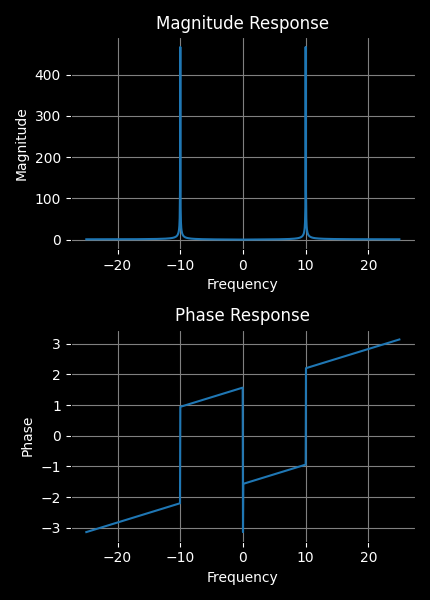
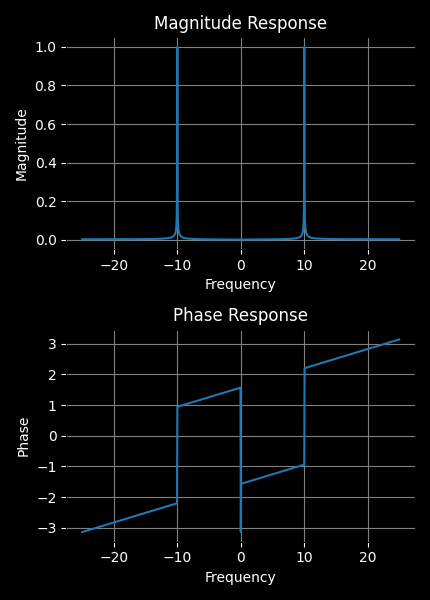
serveral changed on GUI and server

diff --git a/RaspberryPi/GUI/laplace_gui.py b/RaspberryPi/GUI/laplace_gui.py
@@ -1,0 +1,127 @@
+import os
+import sys
+
+sys.path.append(os.path.dirname(os.path.dirname(os.path.abspath(__file__))))
+
+import tkinter as tk
+from tkinter import ttk
+import math
+from sympy import symbols, sympify, laplace_transform
+from fourier_solver import get_laplace_transform
+
+class LaplaceTransform(tk.Frame):
+    def __init__(self, parent, controller):
+        super().__init__(parent, bg="#f0f0f0")
+        self.controller = controller
+        
+        self.function_var = tk.StringVar(value="")
+        self.result_var = tk.StringVar(value="")
+        
+        self.create_widgets()
+
+    def create_widgets(self):
+        self.columnconfigure(0, weight=1)
+
+        # Function entry
+        function_frame = ttk.Frame(self)
+        function_frame.grid(row=0, column=0, pady=20, padx=20, sticky="ew")
+        function_frame.columnconfigure(1, weight=1)
+        
+        ttk.Label(function_frame, text="f(t) = ").grid(row=0, column=0)
+        self.function_entry = ttk.Entry(function_frame, textvariable=self.function_var, font=('Arial', 14))
+        self.function_entry.grid(row=0, column=1, sticky="ew")
+
+        # Transform button
+        ttk.Button(self, text="Compute Laplace Transform", command=self.compute_transform).grid(row=1, column=0, pady=10)
+
+        # Result display
+        result_frame = ttk.Frame(self)
+        result_frame.grid(row=2, column=0, pady=20, padx=20, sticky="ew")
+        result_frame.columnconfigure(1, weight=1)
+        
+        ttk.Label(result_frame, text="F(s) = ").grid(row=0, column=0)
+        ttk.Entry(result_frame, textvariable=self.result_var, font=('Arial', 14), state='readonly').grid(row=0, column=1, sticky="ew")
+
+        # Calculator buttons
+        calc_frame = ttk.Frame(self)
+        calc_frame.grid(row=3, column=0, pady=20)
+        
+        buttons = [
+            'AC', 'DEL', '(', ')', '^', 'sqrt',
+            '7', '8', '9', '/', 'sin', 'cos',
+            '4', '5', '6', '*', 'tan', 'exp',
+            '1', '2', '3', '-', 'log', 'u(t)',
+            '0', '.', 't', '+', 'e', 'δ(t)'
+        ]
+        
+        row, col = 0, 0
+        for button in buttons:
+            cmd = lambda x=button: self.click(x)
+            ttk.Button(calc_frame, text=button, command=cmd).grid(row=row, column=col, sticky='nsew', padx=2, pady=2)
+            col += 1
+            if col > 5:
+                col = 0
+                row += 1
+
+        # Help button
+        ttk.Button(self, text="Help", command=self.show_help).grid(row=4, column=0, pady=10)
+
+        # Back button
+        ttk.Button(self, text="Back", command=lambda: self.controller.show_frame("StartPage")).grid(row=5, column=0, pady=10)
+
+    def click(self, key):
+        if key == 'AC':
+            self.function_var.set("")
+        elif key == 'DEL':
+            self.function_var.set(self.function_var.get()[:-1])
+        elif key in ['sin', 'cos', 'tan', 'exp', 'log', 'sqrt']:
+            self.function_var.set(self.function_var.get() + key + '(')
+        elif key in ['u(t)', 'δ(t)']:
+            self.function_var.set(self.function_var.get() + key)
+        else:
+            self.function_var.set(self.function_var.get() + key)
+
+    def compute_transform(self):
+        try:
+            t, s = symbols('t s')
+            expr = sympify(self.function_var.get())
+            get_laplace_transform(expr, t, s)
+        except Exception as e:
+            self.result_var.set(f"Error: {str(e)}")
+
+    def show_expression(self):
+        pass
+
+    def show_help(self):
+        help_text = """
+        Laplace Transform Calculator
+
+        Enter a function of t to compute its Laplace transform.
+        
+        Examples:
+        - t^2 : L{t^2} = 2/s^3
+        - e^t : L{e^t} = 1/(s-1)
+        - sin(t) : L{sin(t)} = 1/(s^2 + 1)
+        
+        Special functions:
+        - u(t): Unit step function
+        - δ(t): Dirac delta function
+
+        Buttons:
+        - AC: Clear all input
+        - DEL: Delete last character
+
+        Use the calculator buttons for easy input of functions and operations.
+        """
+        help_window = tk.Toplevel(self)
+        help_window.title("Help")
+        ttk.Label(help_window, text=help_text, justify=tk.LEFT).pack(padx=20, pady=20)
+
+# The rest of the code (ShowLaplaceTransform and LaplaceApp classes) remains the same
+
+class ShowLaplaceTransform(tk.Frame):
+    def __init__(self, parent, controller):
+        super().__init__(parent)
+        self.controller = controller
+        ttk.Label(self, text="Laplace Transform Result").pack(pady=10)
+        ttk.Button(self, text="Back to Calculator", command=lambda: controller.show_frame("LaplaceTransform")).pack()

diff --git a/Integral_Transformations/fourier.py b/Integral_Transformations/fourier.py
@@ -51,6 +51,7 @@ class Fourier:
         
         t_vals = np.linspace(-10, 10, 1000)
         sample_rate = t_vals[1] - t_vals[0]
+        # print(sample_rate)
         
         y_vals = expr_func(t_vals)
         
@@ -61,6 +62,8 @@ class Fourier:
         xf = np.fft.fftshift(xf)
         
         magnitude = np.abs(yf)
+        # normalize the magnitude
+        magnitude = magnitude / np.max(magnitude)
         phase = np.angle(yf)
         
         plt.figure(figsize=(4.3, 6), facecolor='black')
@@ -73,6 +76,7 @@ class Fourier:
         ax1.grid(True, color='gray')
         ax1.tick_params(colors='white')
         
+        
         ax2 = plt.subplot(2, 1, 2, facecolor='black')
         ax2.plot(xf, phase)
         ax2.set_title('Phase Response', color='white')
@@ -84,8 +88,6 @@ class Fourier:
         plt.tight_layout()
         plt.savefig("fourier_spectrum.png")
         plt.show()
-        time.sleep(0.5)
-        plt.close()
 
 
 if __name__ == "__main__":

diff --git a/RaspberryPi/fourier_solver.py b/RaspberryPi/fourier_solver.py
@@ -73,4 +73,16 @@ def get_fourier_transform(exp, t, w):
         print("Fourier transform image saved successfully.")
     else:
         print("Failed to generate Fourier transform image.")
+
+def get_laplace_transform(exp, t, s):
+    url = server_address+'/laplace_transform_image'
+    data = {'expression': exp, 'a': t, 'b': s}
+    print(data)
+    response = requests.post(url, json=data)
+    if response.status_code == 200:
+        with open('integrals/laplace_transform.png', 'wb') as f:
+            f.write(response.content)
+        print("Laplace transform image saved successfully.")
+    else:
+        print("Failed to generate Laplace transform image.")
     

diff --git a/RaspberryPi/GUI/main_gui.py b/RaspberryPi/GUI/main_gui.py
@@ -17,6 +17,7 @@ if sys.platform == "linux":
     from GUI.cam_GUI import CameraApp
 from GUI.loading_gui import Loading_GUI
 from GUI.fourier_gui import FourierTransform,ShowFourierSpectrum
+from GUI.laplace_gui import LaplaceTransform
 import socket
 
 class MainApplication(tk.Tk):
